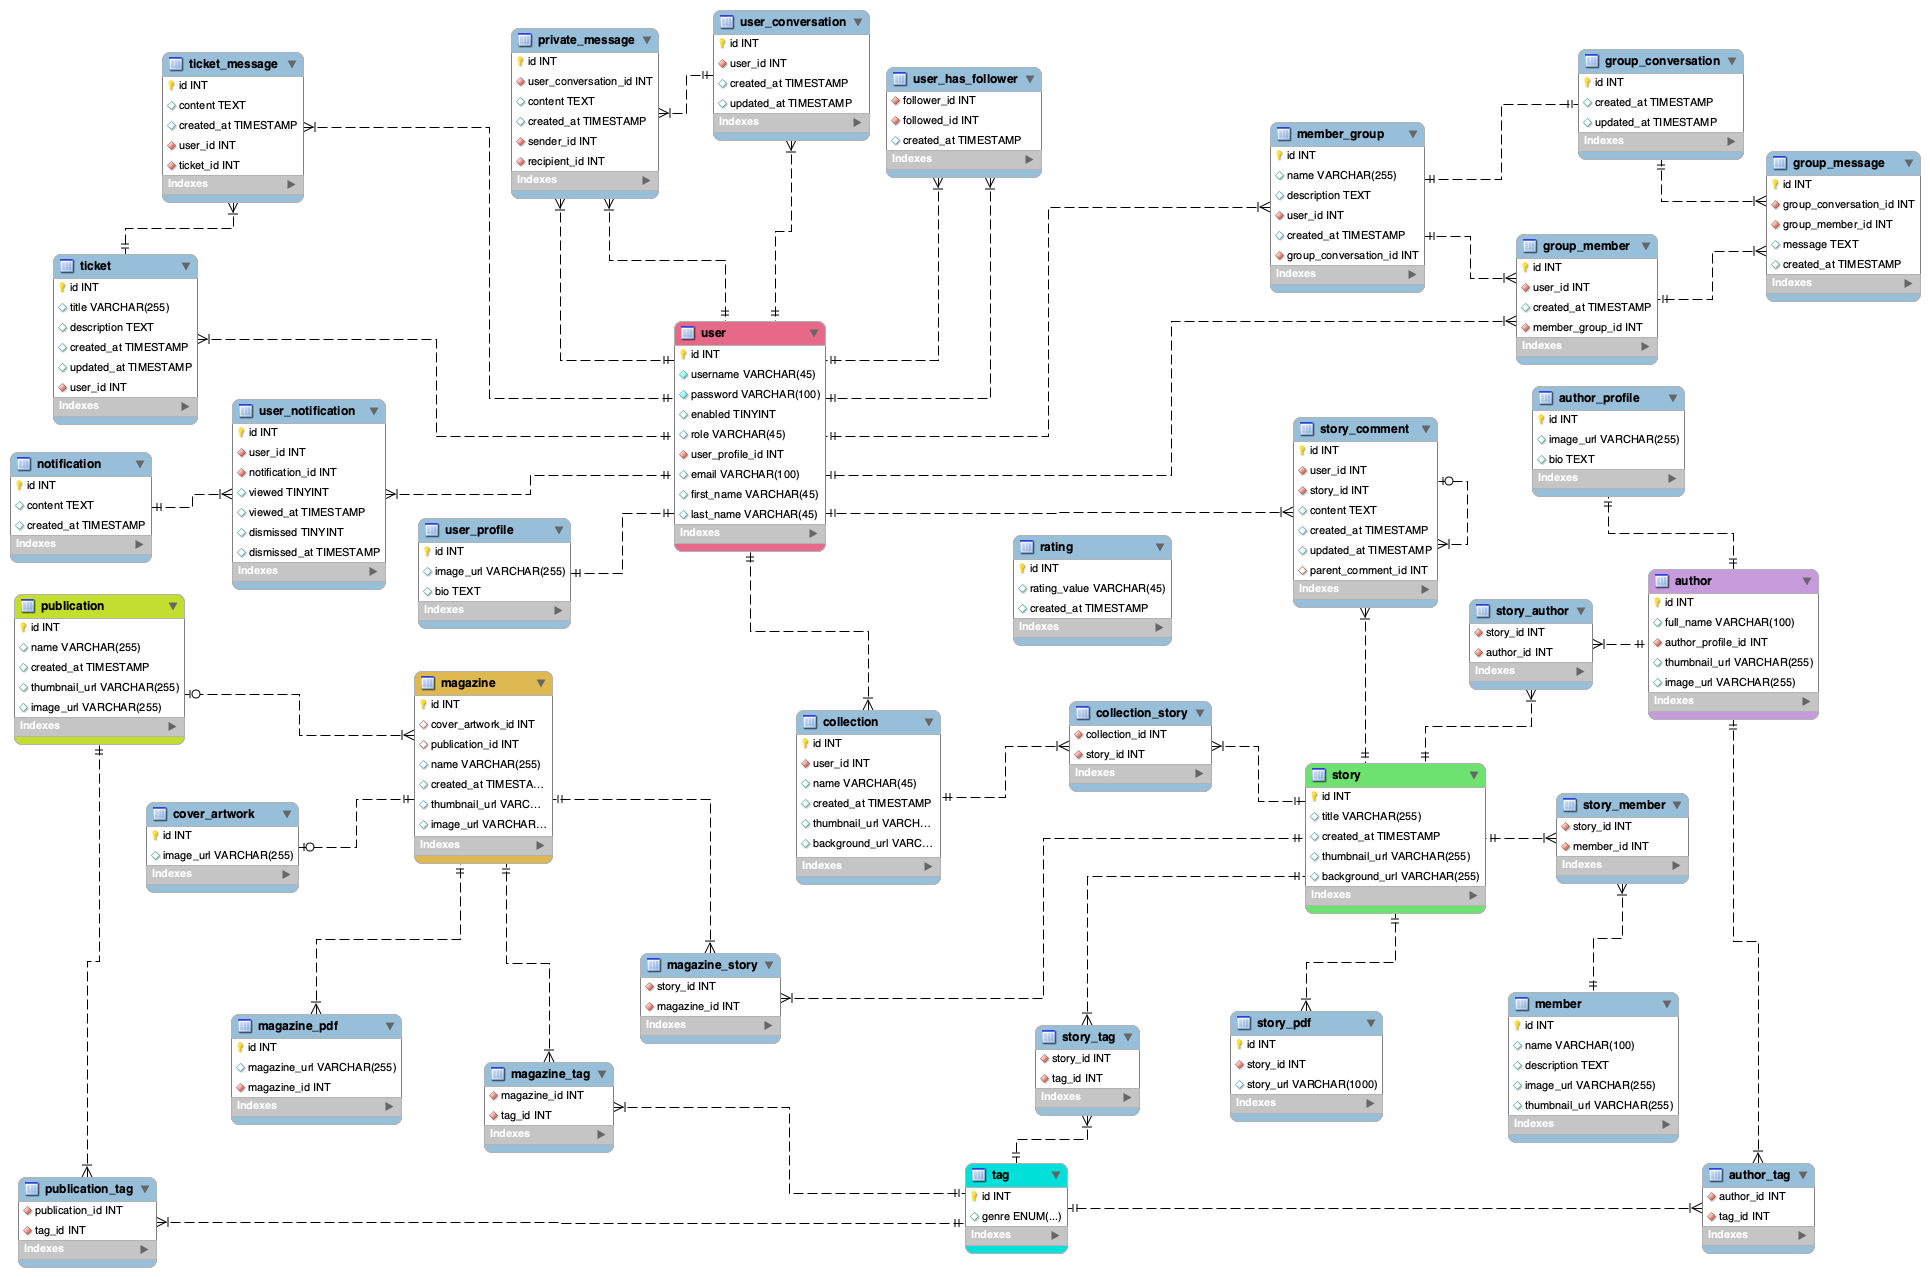
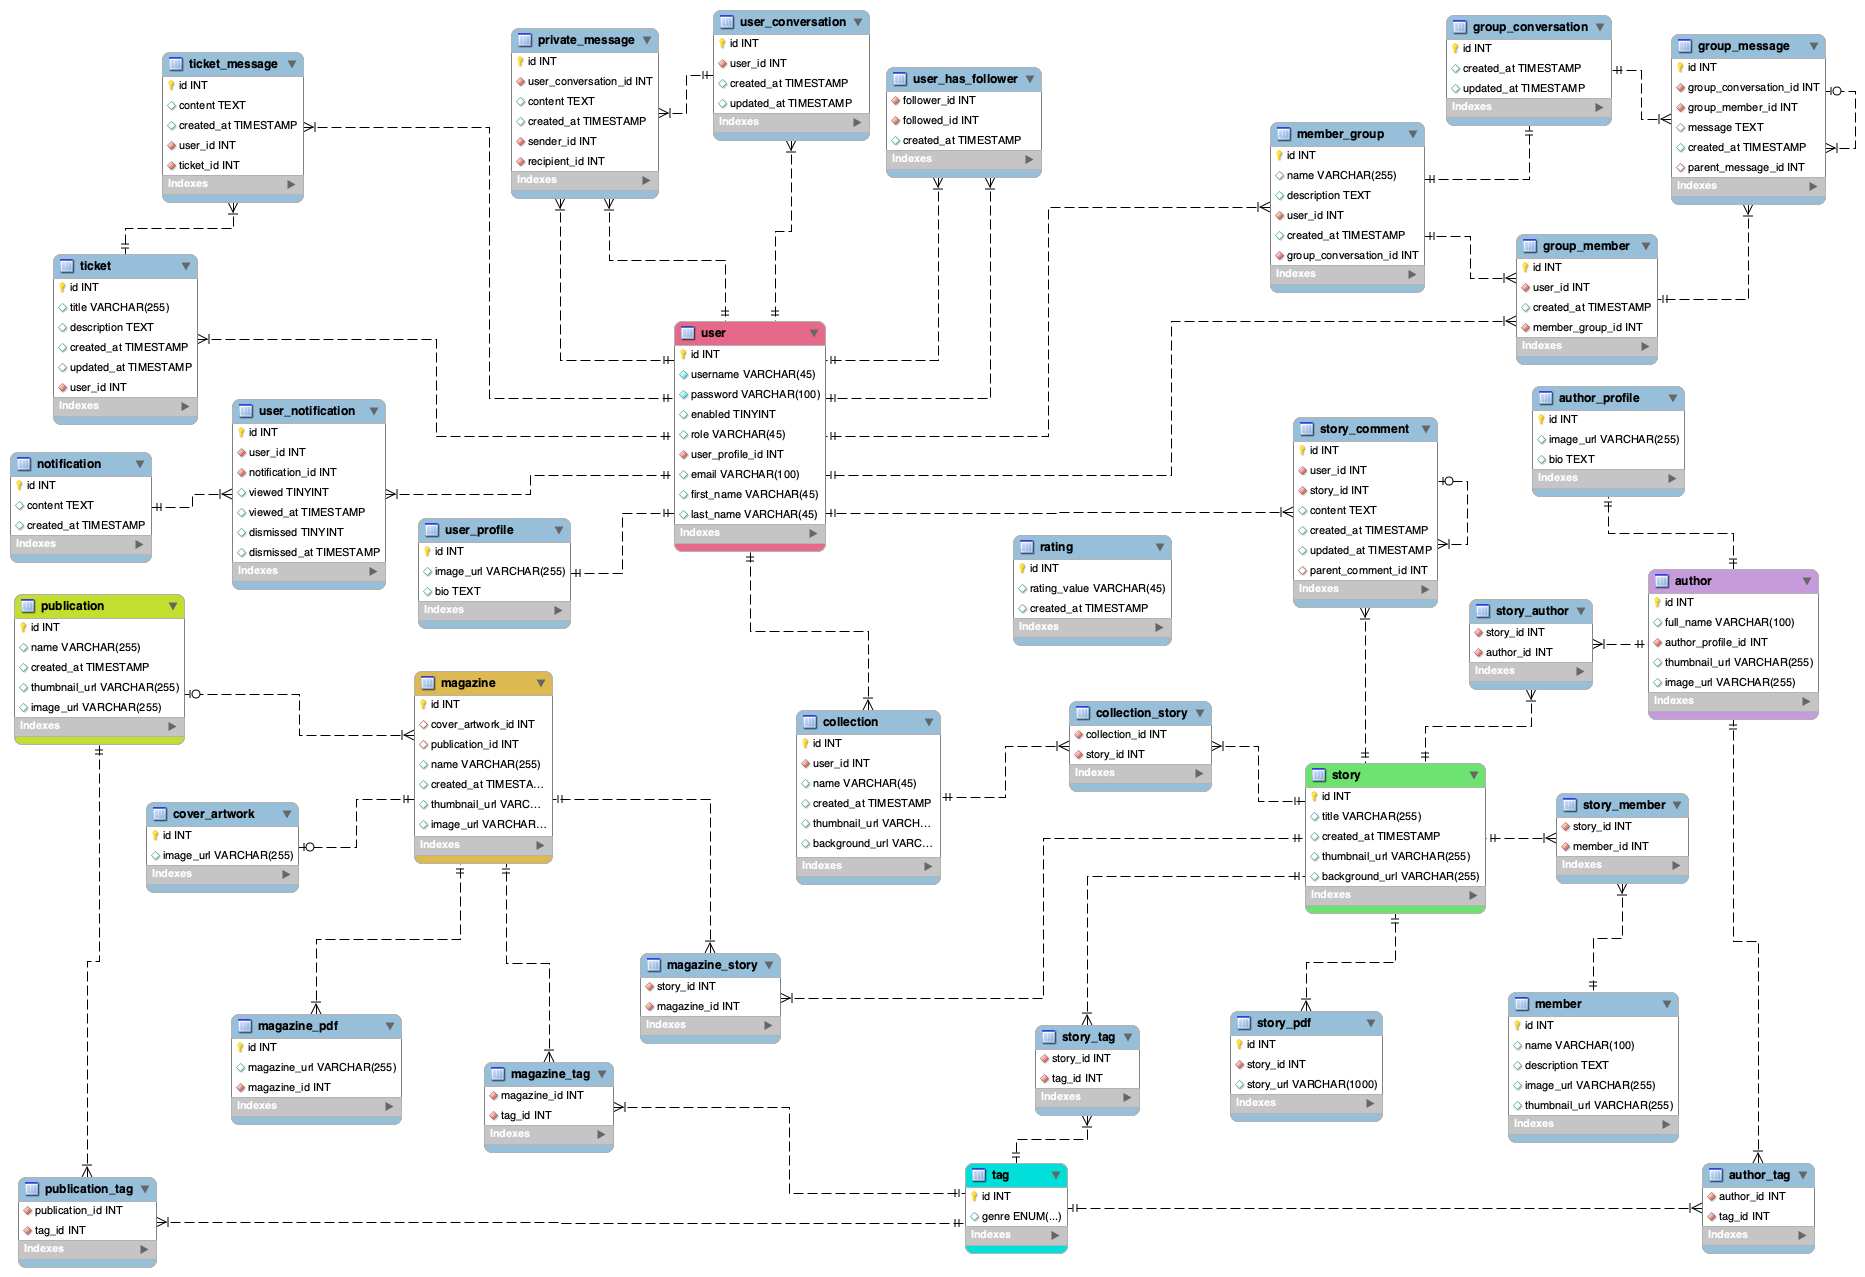
Implement replies for group messages. Successfully tested with junit

diff --git a/JPAThePulps/src/main/java/com/skilldistillery/thepulps/entities/GroupMessage.java b/JPAThePulps/src/main/java/com/skilldistillery/thepulps/entities/GroupMessage.java
@@ -1,8 +1,11 @@
 package com.skilldistillery.thepulps.entities;
 
 import java.time.LocalDateTime;
+import java.util.ArrayList;
+import java.util.List;
 import java.util.Objects;
 
+import javax.persistence.CascadeType;
 import javax.persistence.Column;
 import javax.persistence.Entity;
 import javax.persistence.GeneratedValue;
@@ -10,9 +13,13 @@ import javax.persistence.GenerationType;
 import javax.persistence.Id;
 import javax.persistence.JoinColumn;
 import javax.persistence.ManyToOne;
+import javax.persistence.OneToMany;
+import javax.persistence.OrderBy;
 import javax.persistence.Table;
 
 import org.hibernate.annotations.CreationTimestamp;
+
+import com.fasterxml.jackson.annotation.JsonIgnoreProperties;
 
 @Entity
 @Table(name = "group_message")
@@ -35,6 +42,15 @@ public class GroupMessage {
 	@CreationTimestamp
 	@Column(name = "created_at")
 	private LocalDateTime createdAt;
+	
+	@ManyToOne
+	@JoinColumn(name = "parent_message_id")
+	@JsonIgnoreProperties("replies")
+	private GroupMessage parentMessage;
+
+	@OneToMany(mappedBy = "parentMessage", cascade = CascadeType.ALL)
+	@OrderBy("createdAt ASC")
+	private List<GroupMessage> replies = new ArrayList<>();
 
 	public GroupMessage() {
 		super();
@@ -42,13 +58,15 @@ public class GroupMessage {
 	}
 
 	public GroupMessage(int id, GroupConversation groupConversation, GroupMember groupMember, String message,
-			LocalDateTime createdAt) {
+			LocalDateTime createdAt, GroupMessage parentMessage, List<GroupMessage> replies) {
 		super();
 		this.id = id;
 		this.groupConversation = groupConversation;
 		this.groupMember = groupMember;
 		this.message = message;
 		this.createdAt = createdAt;
+		this.parentMessage = parentMessage;
+		this.replies = replies;
 	}
 
 	public int getId() {
@@ -89,6 +107,22 @@ public class GroupMessage {
 
 	public void setCreatedAt(LocalDateTime createdAt) {
 		this.createdAt = createdAt;
+	}
+
+	public GroupMessage getParentMessage() {
+		return parentMessage;
+	}
+
+	public void setParentMessage(GroupMessage parentMessage) {
+		this.parentMessage = parentMessage;
+	}
+
+	public List<GroupMessage> getReplies() {
+		return replies;
+	}
+
+	public void setReplies(List<GroupMessage> replies) {
+		this.replies = replies;
 	}
 
 	@Override

diff --git a/JPAThePulps/src/test/java/com/skilldistillery/thepulps/entities/GroupMessageTest.java b/JPAThePulps/src/test/java/com/skilldistillery/thepulps/entities/GroupMessageTest.java
@@ -63,5 +63,23 @@ class GroupMessageTest {
 		assertEquals(2023, groupMessage.getGroupConversation().getCreatedAt().getYear());
 		assertEquals(Month.JUNE, groupMessage.getGroupConversation().getCreatedAt().getMonth());
 	}
+	
+	@Test
+	void test_GroupMessage_entity_mapping_v2() {
+		assertNotNull(groupMessage);
+		assertEquals("Hello REH enthusiasts!", groupMessage.getMessage());
+	}
+	
+	@Test
+	void test_GroupMessage_Reply_one_to_many_mapping() {
+		assertNotNull(groupMessage);
+		assertEquals("Thanks for the warm welcome!", groupMessage.getReplies().get(0).getMessage());
+	}
+	
+	@Test
+	void test_Reply_ParentComment_many_to_one_mapping() {
+		assertNotNull(groupMessage);
+		assertEquals("Hello REH enthusiasts!", groupMessage.getReplies().get(0).getParentMessage().getMessage());
+	}
 
 }
